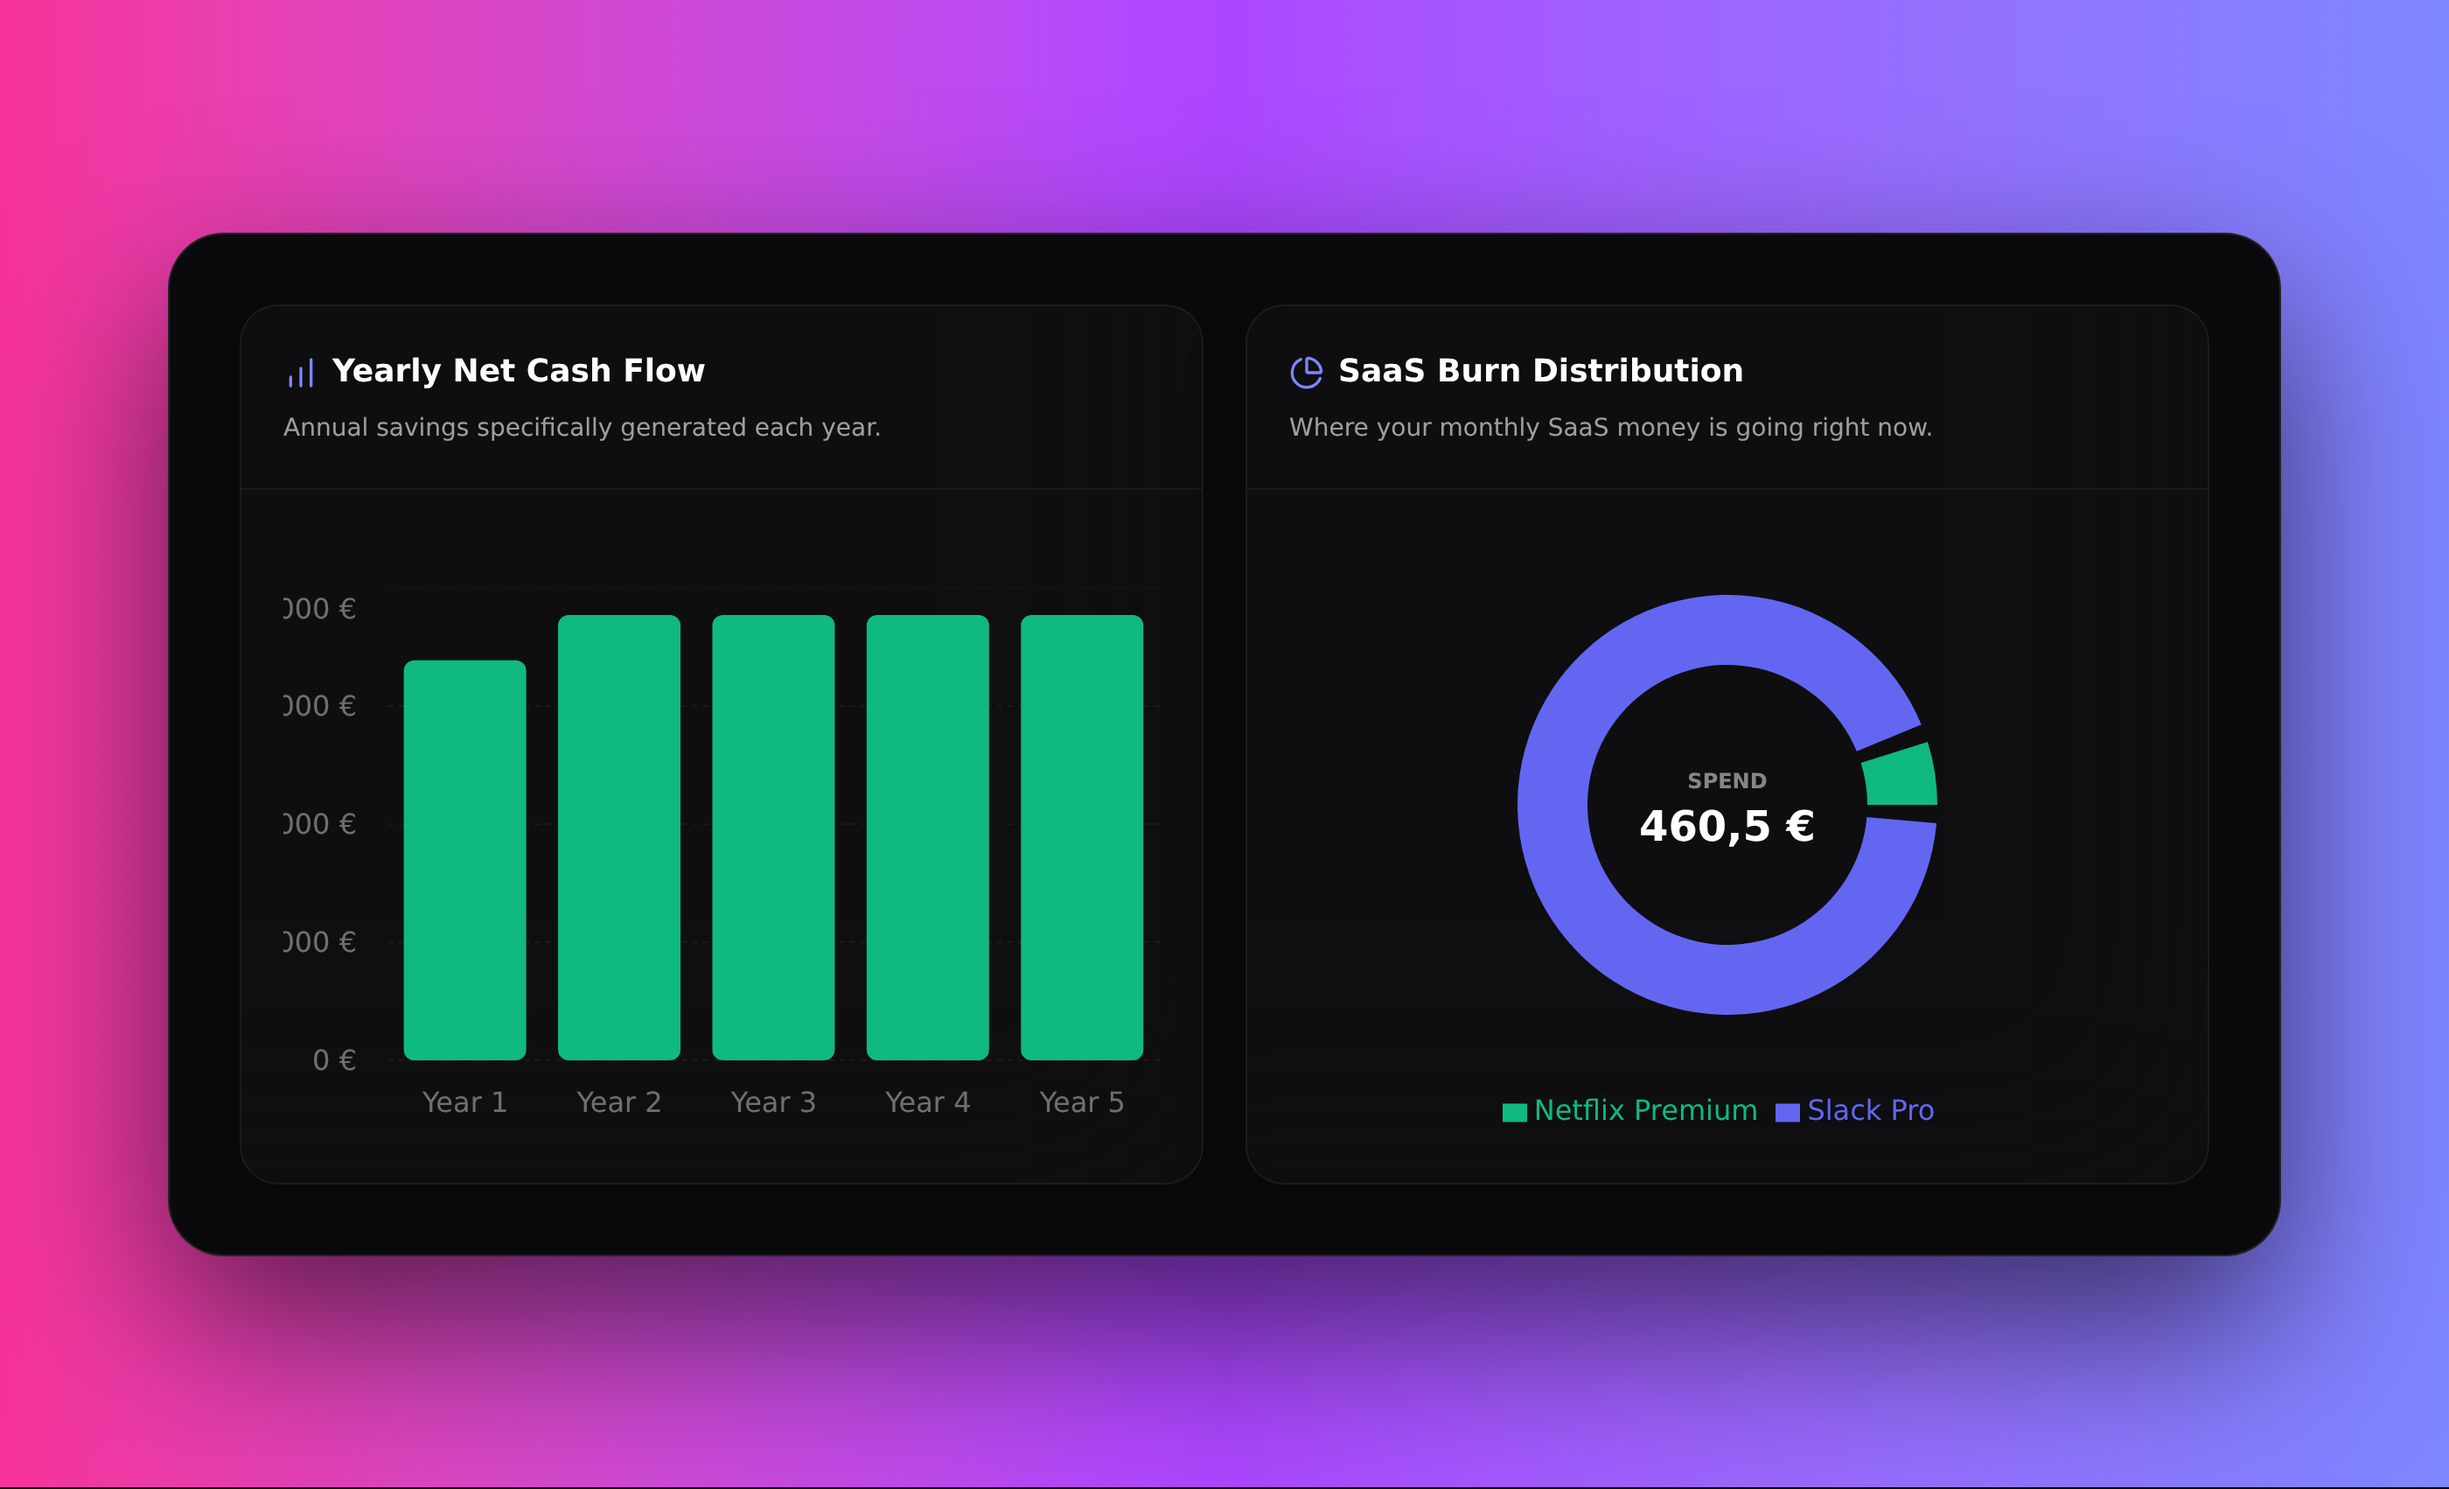
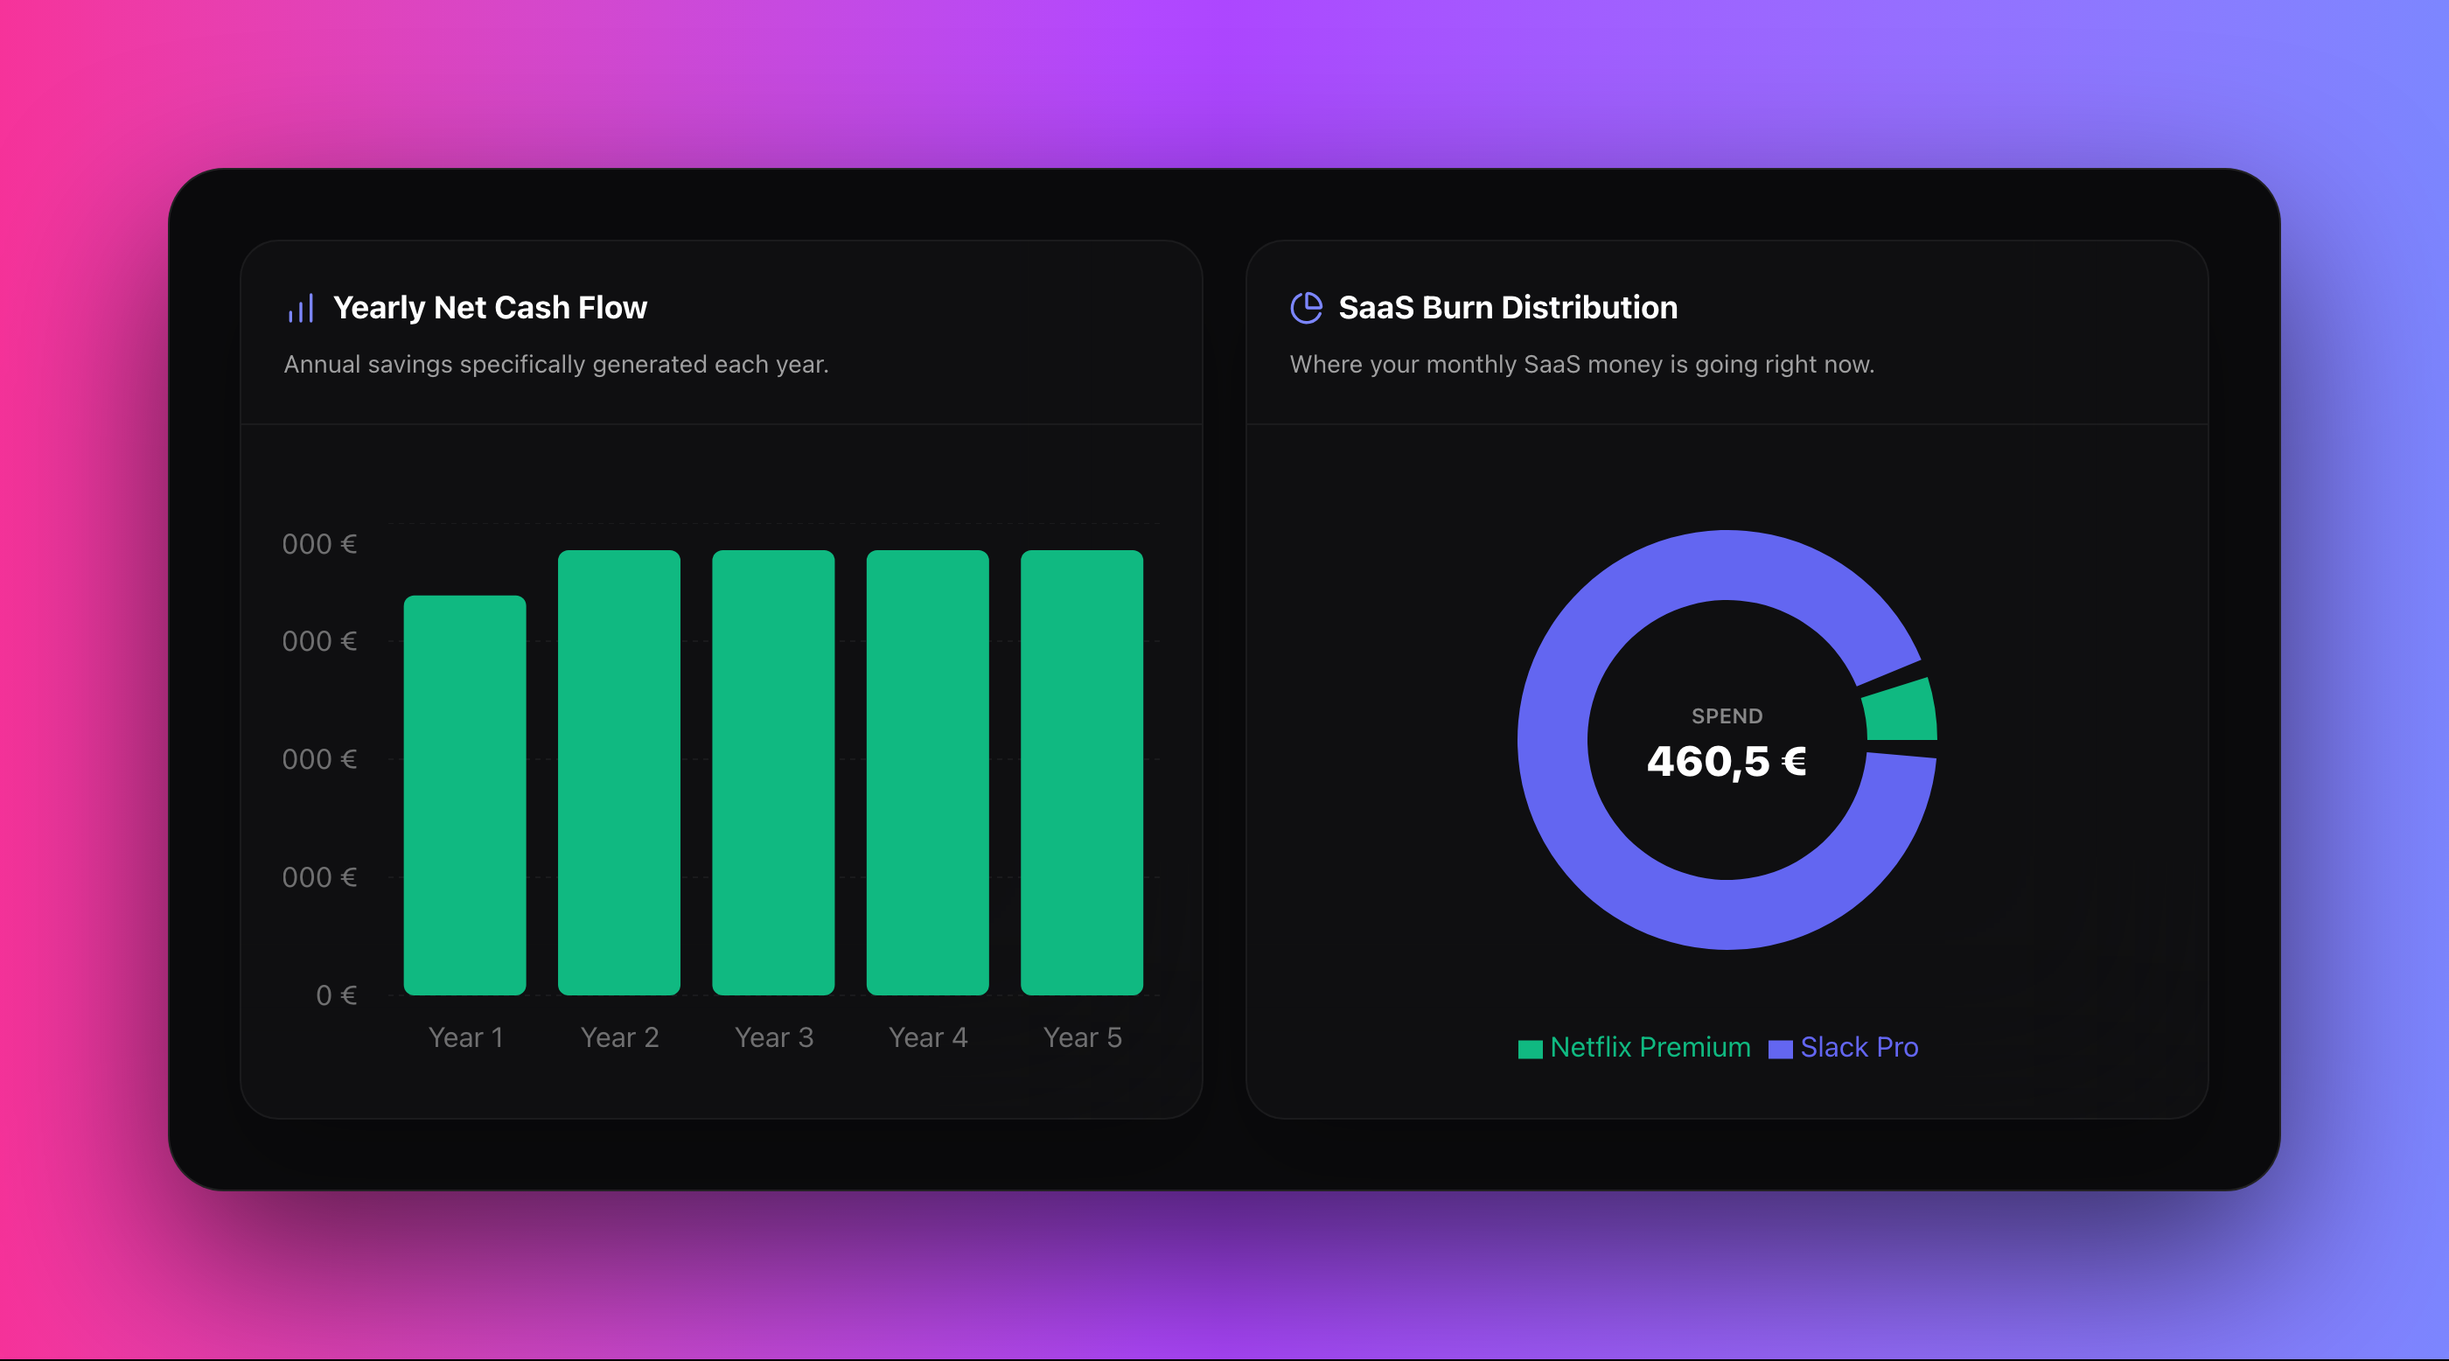
fix: disable annoying auto-commits and rely purely on dynamic responsive layout screenshot sizes

diff --git a/src/app/marketing-studio/page.tsx b/src/app/marketing-studio/page.tsx
@@ -97,14 +97,14 @@ export default function MarketingStudio() {
       </div>
 
       {/* SHOT 2: Area Chart Tracker */}
-      <div id="shot-2" className="w-[1400px] h-[850px] p-24 bg-gradient-to-tr from-indigo-500 via-fuchsia-500 to-pink-200 flex flex-col items-center justify-center">
+      <div id="shot-2" className="w-[1400px] p-24 bg-gradient-to-tr from-indigo-500 via-fuchsia-500 to-pink-200 flex flex-col items-center justify-center">
         <BrowserShell>
           <SavingsVisualizations projections={projections} subscriptions={subscriptions} currency={currency} hideBottomCharts />
         </BrowserShell>
       </div>
 
       {/* SHOT 3: Bottom Analytics */}
-      <div id="shot-3" className="w-[1400px] h-[850px] p-24 bg-gradient-to-r from-pink-500 via-purple-500 to-indigo-400 flex flex-col items-center justify-center">
+      <div id="shot-3" className="w-[1400px] p-24 bg-gradient-to-r from-pink-500 via-purple-500 to-indigo-400 flex flex-col items-center justify-center">
         <BrowserShell>
            <div className="space-y-6">
                  {/* This renders just the bar and pie chart grids without the command center */}
